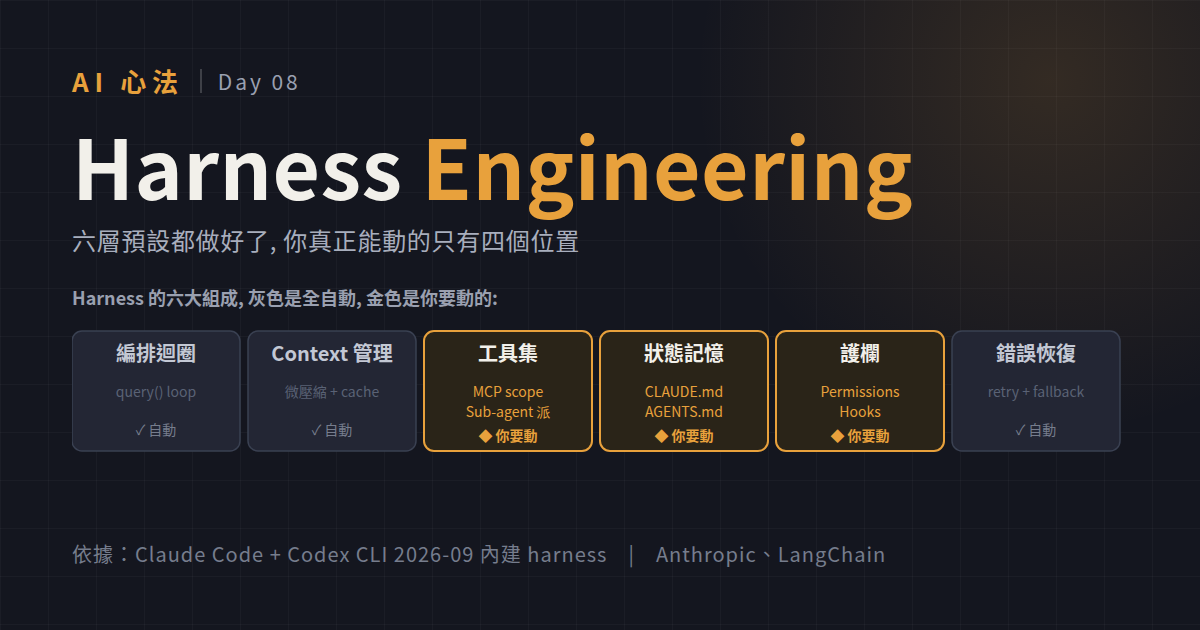
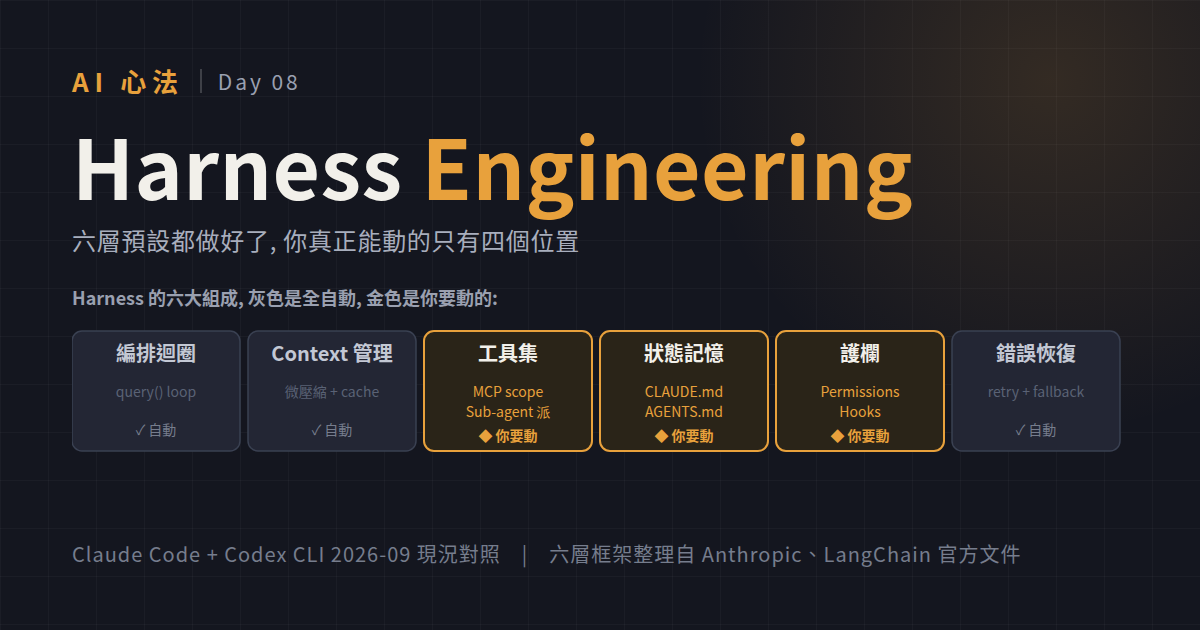
Day 08 cover foot: 換成「現況對照+框架來源」句型
拿掉語意不對的「依據」開頭. 新句子把兩件事講清楚:
- 左半: Claude Code + Codex CLI 2026-09 現況對照 (時效)
- 右半: 六層框架整理自 Anthropic、LangChain 官方文件 (框架來源)

Changed region(s): [[0.0617, 0.8444, 0.8633, 0.9048]]

diff --git a/05-notes/ironman/assets/cover-day08.html b/05-notes/ironman/assets/cover-day08.html
@@ -73,5 +73,5 @@ text{font-family:"Noto Sans CJK TC",sans-serif}
 
   </svg>
   </div>
-  <div class="foot">依據：Claude Code + Codex CLI 2026-09 內建 harness　|　Anthropic、LangChain</div>
+  <div class="foot">Claude Code + Codex CLI 2026-09 現況對照　|　六層框架整理自 Anthropic、LangChain 官方文件</div>
 </div></body></html>
